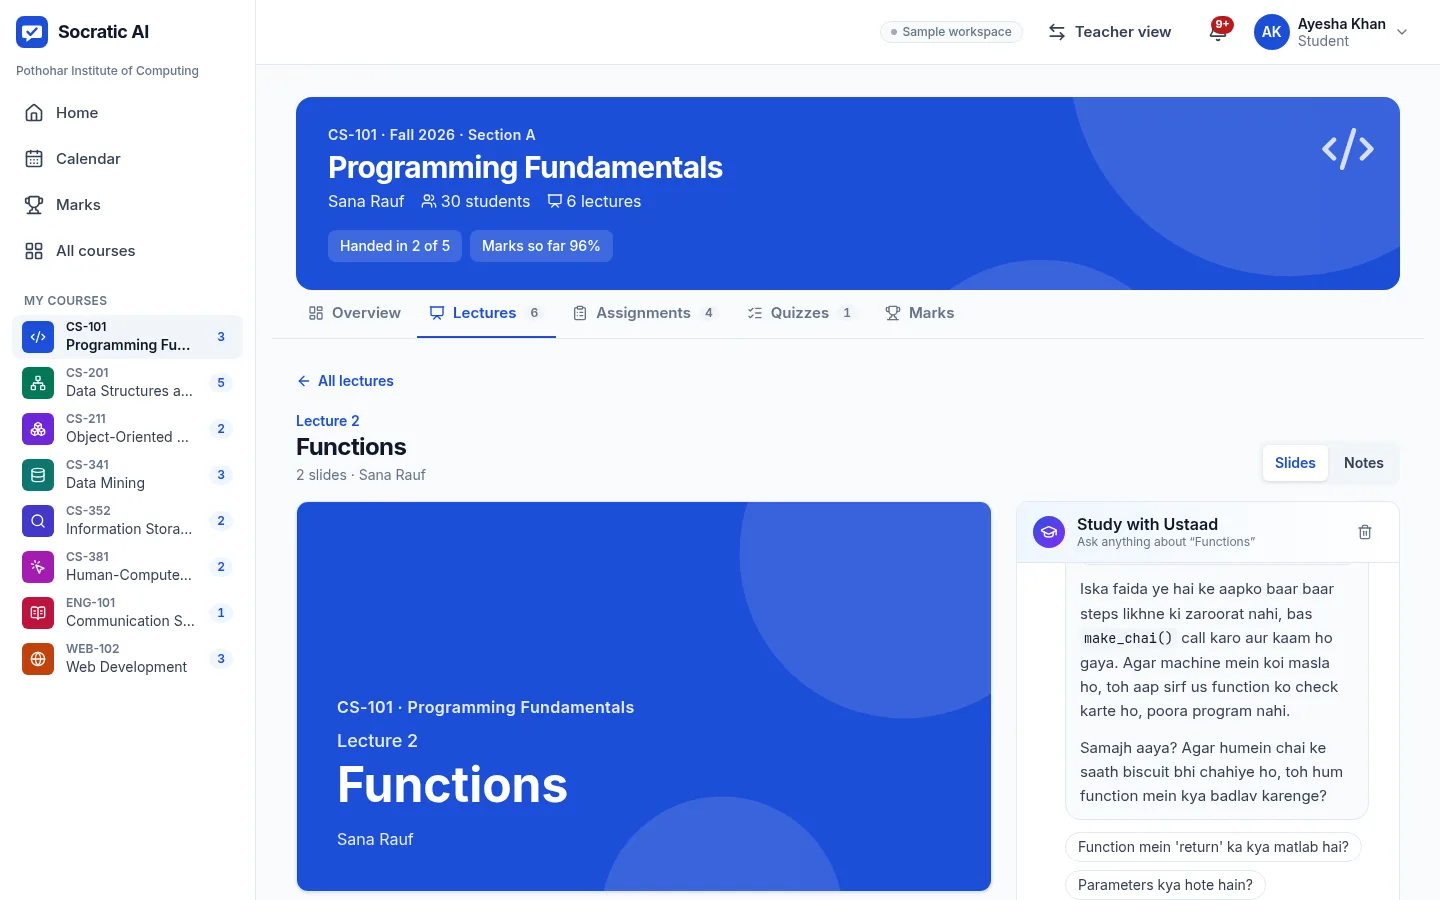
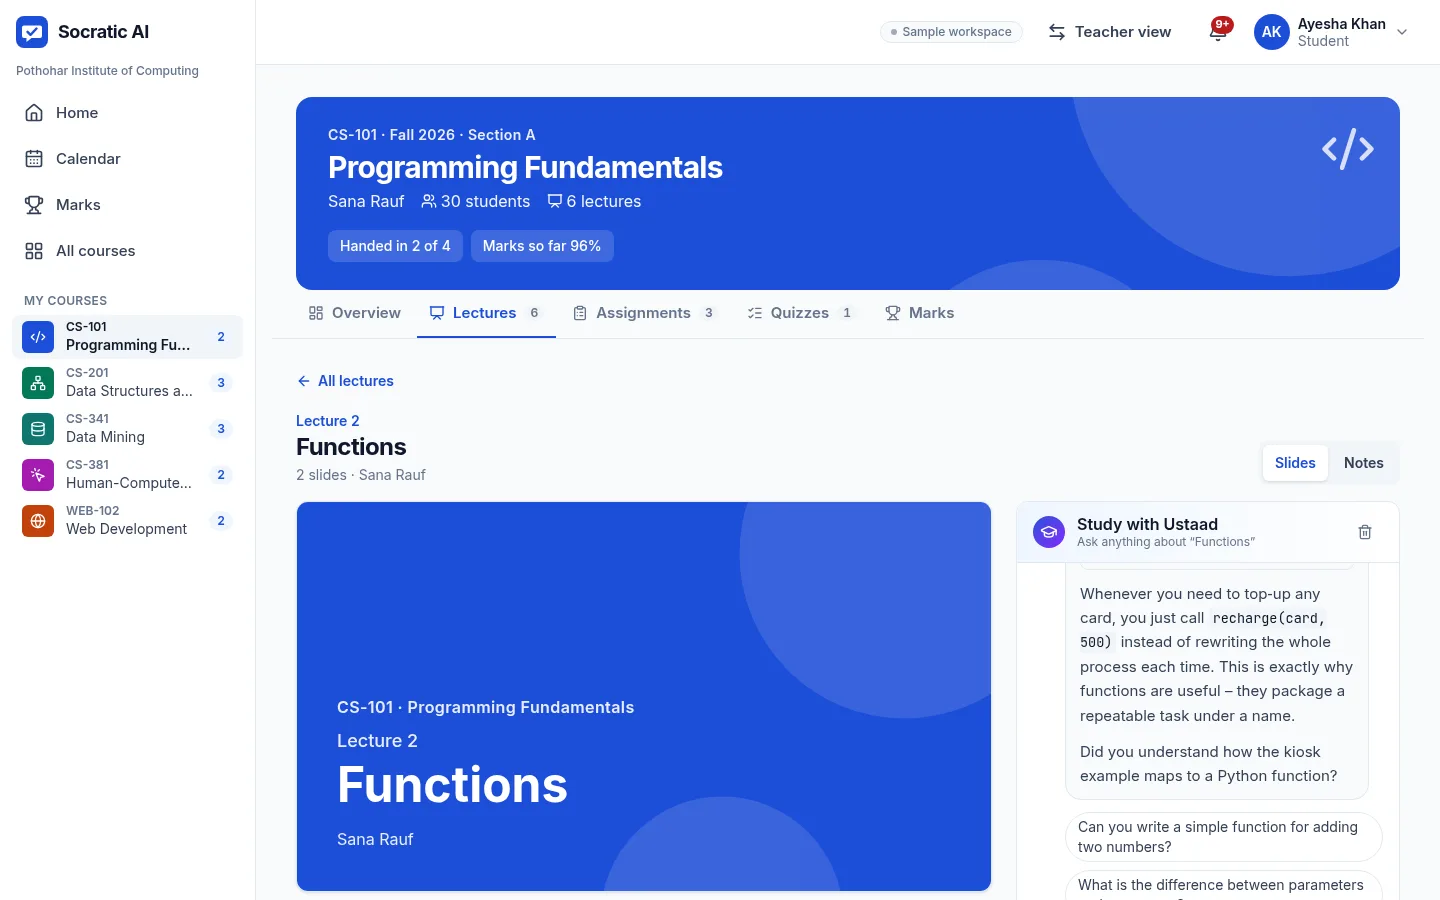
Sample student takes 5 courses with paced work; tests guard the load
- Ayesha leaves ENG-101, CS-211 and CS-352 (the courses stay for their classes)
- PACE table: at most 2 due per day, 3 open per course, rest scheduled as drafts;
  open work matches the announcements (11 to do -> 12 total, 6 this week vs 21/19)
- content.test.ts enforces the five courses and the pacing
- Browser test's written task moves to the HCI usability review
- Landing screenshots retaken; CLAUDE.md seed description updated

Changed region(s): [[0.75, 0.6533, 0.9375, 1.0], [0.0, 0.4356, 0.125, 0.7467], [0.3125, 0.2489, 0.4062, 0.28]]

diff --git a/server/seed/content.ts b/server/seed/content.ts
@@ -86,12 +86,13 @@ export const students: SeedPerson[] = [
 const keys = students.map((s) => s.key);
 const firstYears = keys.slice(0, 34);
 const secondYears = keys.slice(15, 45);
-/** Who takes which of the lecture-material courses. Ayesha (the demo student) has a full semester. */
+/** Who takes which of the lecture-material courses. Ayesha (the sample student) takes 5 courses in all:
+ *  CS-101, WEB-102, CS-201, CS-341 and CS-381, so her semester looks like a real, manageable load. */
 const ROSTERS: Record<string, string[]> = {
   cs201: ["ayesha", ...secondYears],
-  cs211: ["ayesha", ...keys.slice(5, 33)],
+  cs211: keys.slice(5, 34),
   cs341: ["ayesha", ...keys.slice(12, 41)],
-  cs352: ["ayesha", ...keys.slice(14, 42)],
+  cs352: keys.slice(14, 43),
   cs381: ["ayesha", ...keys.slice(8, 37)],
   cs461: keys.slice(16, 45),
   cs372: keys.slice(13, 42),
@@ -113,7 +114,7 @@ export const courses: SeedCourse[] = [
   // A new, empty section: shows the creation flow and the teaching empty states.
   { key: "cs101b", teacher: "sana", code: "CS-101", name: "Programming Fundamentals", section: "Section B (new)", term: "Fall 2026", joinCode: "PKC7HB", students: [] },
   { key: "web102", teacher: "imran", code: "WEB-102", name: "Web Development", section: "Section A", term: "Fall 2026", joinCode: "WEB4KQ", students: ["ayesha", ...firstYears.slice(5, 34)] },
-  { key: "eng101", teacher: "hina", code: "ENG-101", name: "Communication Skills", section: "Section C", term: "Fall 2026", joinCode: "ENG3RT", students: ["ayesha", ...firstYears.slice(3, 32)] },
+  { key: "eng101", teacher: "hina", code: "ENG-101", name: "Communication Skills", section: "Section C", term: "Fall 2026", joinCode: "ENG3RT", students: firstYears.slice(3, 33).filter((k) => k !== "ayesha") },
   // Courses built from the team's own lecture material (server/seed/courses/). Rosters are set here.
   ...coursePacks.map((p) => ({ ...p.course, students: ROSTERS[p.course.key] ?? [] })),
 ];
@@ -190,7 +191,28 @@ export interface SeedQuiz {
 
 const labRules = (o: Partial<SeedAssignment["rules"]> = {}): SeedAssignment["rules"] => ({ pasteBlocked: true, workflow: "run_first", vivaQuestions: 3, vivaSecondsPerQ: 90, vivaWeight: 50, variantsOn: false, ...o });
 
-export const assignments: SeedAssignment[] = [
+/**
+ * Pacing for the sample student's five courses: at most two or three pieces of open work per course,
+ * due dates spread over the next two weeks (never a pile on one day), the rest scheduled as drafts.
+ * Applied on top of each course's own dates. Keys must exist (checked in content.test.ts).
+ */
+type Pace = Pick<SeedAssignment, "status" | "opensInDays" | "dueInDays">;
+const pub = (opensInDays: number, dueInDays: number): Pace => ({ status: "published", opensInDays, dueInDays });
+const later = (opensInDays: number, dueInDays: number): Pace => ({ status: "draft", opensInDays, dueInDays });
+export const PACE: Record<string, Pace> = {
+  // CS-101
+  cricket: pub(-2, 3), "quiz-python": pub(-2, 6), rickshaw: later(5, 12),
+  // WEB-102
+  attendance: pub(-2, 4), "quiz-js": pub(-1, 8), bill: later(6, 13),
+  // CS-201
+  "dsa-quiz-trees": pub(-1, 7), queue: pub(-4, 10), "dsa-bst": pub(-2, 13), "dsa-trace": later(4, 12), "quiz-ds": later(8, 15),
+  // CS-341
+  "dm-quiz": pub(-2, 4), "dm-apriori": pub(-1, 9), "dm-kmeans": pub(-3, 11),
+  // CS-381
+  "hci-quiz": pub(-2, 5), "hci-review": pub(-1, 12),
+};
+
+export const assignments: SeedAssignment[] = ([
   // ------------------------------------------------------------ CS-101 (Python)
   {
     key: "chai", course: "cs101", week: 1, type: "code", language: "python", title: "Chai Bill Splitter", status: "closed", opensInDays: -16, dueInDays: -10, marks: 10,
@@ -416,7 +438,7 @@ export const assignments: SeedAssignment[] = [
   },
   ...quizAssignments,
   ...coursePacks.flatMap((p) => p.assignments),
-];
+] satisfies SeedAssignment[]).map((a): SeedAssignment => (PACE[a.key] ? { ...a, ...PACE[a.key] } : a));
 
 export interface SeedAnnouncement {
   course: string;

diff --git a/server/seed/content.test.ts b/server/seed/content.test.ts
@@ -1,0 +1,29 @@
+import { describe, expect, it } from "vitest";
+import { assignments, courses, PACE } from "./content.js";
+
+const mine = courses.filter((c) => c.students.includes("ayesha")).map((c) => c.key);
+const myOpen = assignments.filter((a) => mine.includes(a.course) && a.status === "published");
+
+describe("the sample student's semester", () => {
+  it("has exactly five courses", () => {
+    expect(mine.sort()).toEqual(["cs101", "cs201", "cs341", "cs381", "web102"]);
+  });
+
+  it("paces only assignments that exist", () => {
+    const keys = new Set(assignments.map((a) => a.key));
+    expect(Object.keys(PACE).filter((k) => !keys.has(k))).toEqual([]);
+  });
+
+  it("never piles work up: at most 2 due on one day, 7 in the next week, 3 open per course", () => {
+    const perDay = new Map<number, number>();
+    for (const a of myOpen) perDay.set(a.dueInDays, (perDay.get(a.dueInDays) ?? 0) + 1);
+    expect(Math.max(...perDay.values())).toBeLessThanOrEqual(2);
+    expect(myOpen.filter((a) => a.dueInDays >= 0 && a.dueInDays <= 7).length).toBeLessThanOrEqual(7);
+    for (const c of mine) expect(myOpen.filter((a) => a.course === c).length).toBeLessThanOrEqual(3);
+    for (const a of myOpen) expect(a.opensInDays).toBeLessThan(a.dueInDays);
+  });
+
+  it("keeps the demo path's assignment open", () => {
+    expect(assignments.find((a) => a.key === "cricket")).toMatchObject({ status: "published", course: "cs101" });
+  });
+});

diff --git a/scripts/smoke-ui.ts b/scripts/smoke-ui.ts
@@ -118,8 +118,8 @@ async function main() {
     await s.goto(`${BASE}/student`, { waitUntil: "domcontentloaded" });
     await s.waitForSelector("[data-course-card]", { timeout: 15000 });
     await showAllTasks(s);
-    await s.waitForFunction(() => document.body.innerText.includes("Should Phones Be Allowed in Class?"), { timeout: 15000 });
-    await s.locator("a ::-p-text(Should Phones Be Allowed in Class?)").click();
+    await s.waitForFunction(() => document.body.innerText.includes("Usability Review of a University Website"), { timeout: 15000 });
+    await s.locator("a ::-p-text(Usability Review of a University Website)").click();
     await s.waitForSelector("textarea[aria-label^='Your answer']", { timeout: 20000 });
     await s.type("textarea[aria-label^='Your answer']", "Phones should be allowed in class because they help us look things up quickly.");
     await s.waitForFunction(() => document.body.innerText.includes("14 words"), { timeout: 5000 });

diff --git a/CLAUDE.md b/CLAUDE.md
@@ -174,7 +174,7 @@ The site must explain itself in five seconds **without a feature list**. Follow 
 
 - The UI must look excellent at **1920×1080** at 100% and 125% zoom: no overflow, no cut-off text, no console errors.
 - `?recording=1` hides dev-only elements and any debug badges, except "Demo data".
-- Seed data: a fictional institution ("Pothohar Institute of Computing: Demo"), 3 teachers, 4 courses (CS-101, WEB-102, CS-201, ENG-101), 6 weekly modules each, about 22 assignments, 30 fictional students per course, past submissions from **simulated students** (strong, struggling and copying personas) worked through the real platform, each reused under several classmates, and announcements. **Dates are relative to today.** One empty "New course" shows the creation flow.
+- Seed data: a fictional institution ("Pothohar Institute of Computing"), 3+ teachers, 10 courses (CS-101, WEB-102, ENG-101, plus seven built from the team's lecture material in `server/seed/courses/`), about 30 fictional students per course, past submissions from **simulated students** (strong, struggling and copying personas) worked through the real platform, each reused under several classmates, and announcements. The sample student (Ayesha) takes **5 courses** (CS-101, WEB-102, CS-201, CS-341, CS-381) with work paced by `PACE` in `server/seed/content.ts`: at most 2 due per day and 3 open per course (`content.test.ts` enforces it). **Dates are relative to today.** One empty "New course" section shows the creation flow.
 - `npm run seed` rebuilds everything in under a minute and **never calls an AI model**. Past submissions come from session files in `server/seed/sessions/*.json`, shown under fictional classmates' names, with flags and grades recomputed by the current rules. Never write or edit session files by hand.
   - **Simulated demo students (decision, Nov 24):** `npm run demo:generate` runs persona-driven simulated students (their code, drafts and viva answers written by an AI playing the student) through the REAL platform: its own viva questions, AI scoring, hidden tests and flag rules produce every score and flag. Files are marked `"simulated": true`. They are demo data, disclosed in the README and the "Demo data" badge, and are **never presented as a measured result** (measured results come only from real users, e.g. Thursday's test).
   - Real recorded sessions (`npm run session:export`, see `docs/recording-guide.md`) can be added alongside at any time.
